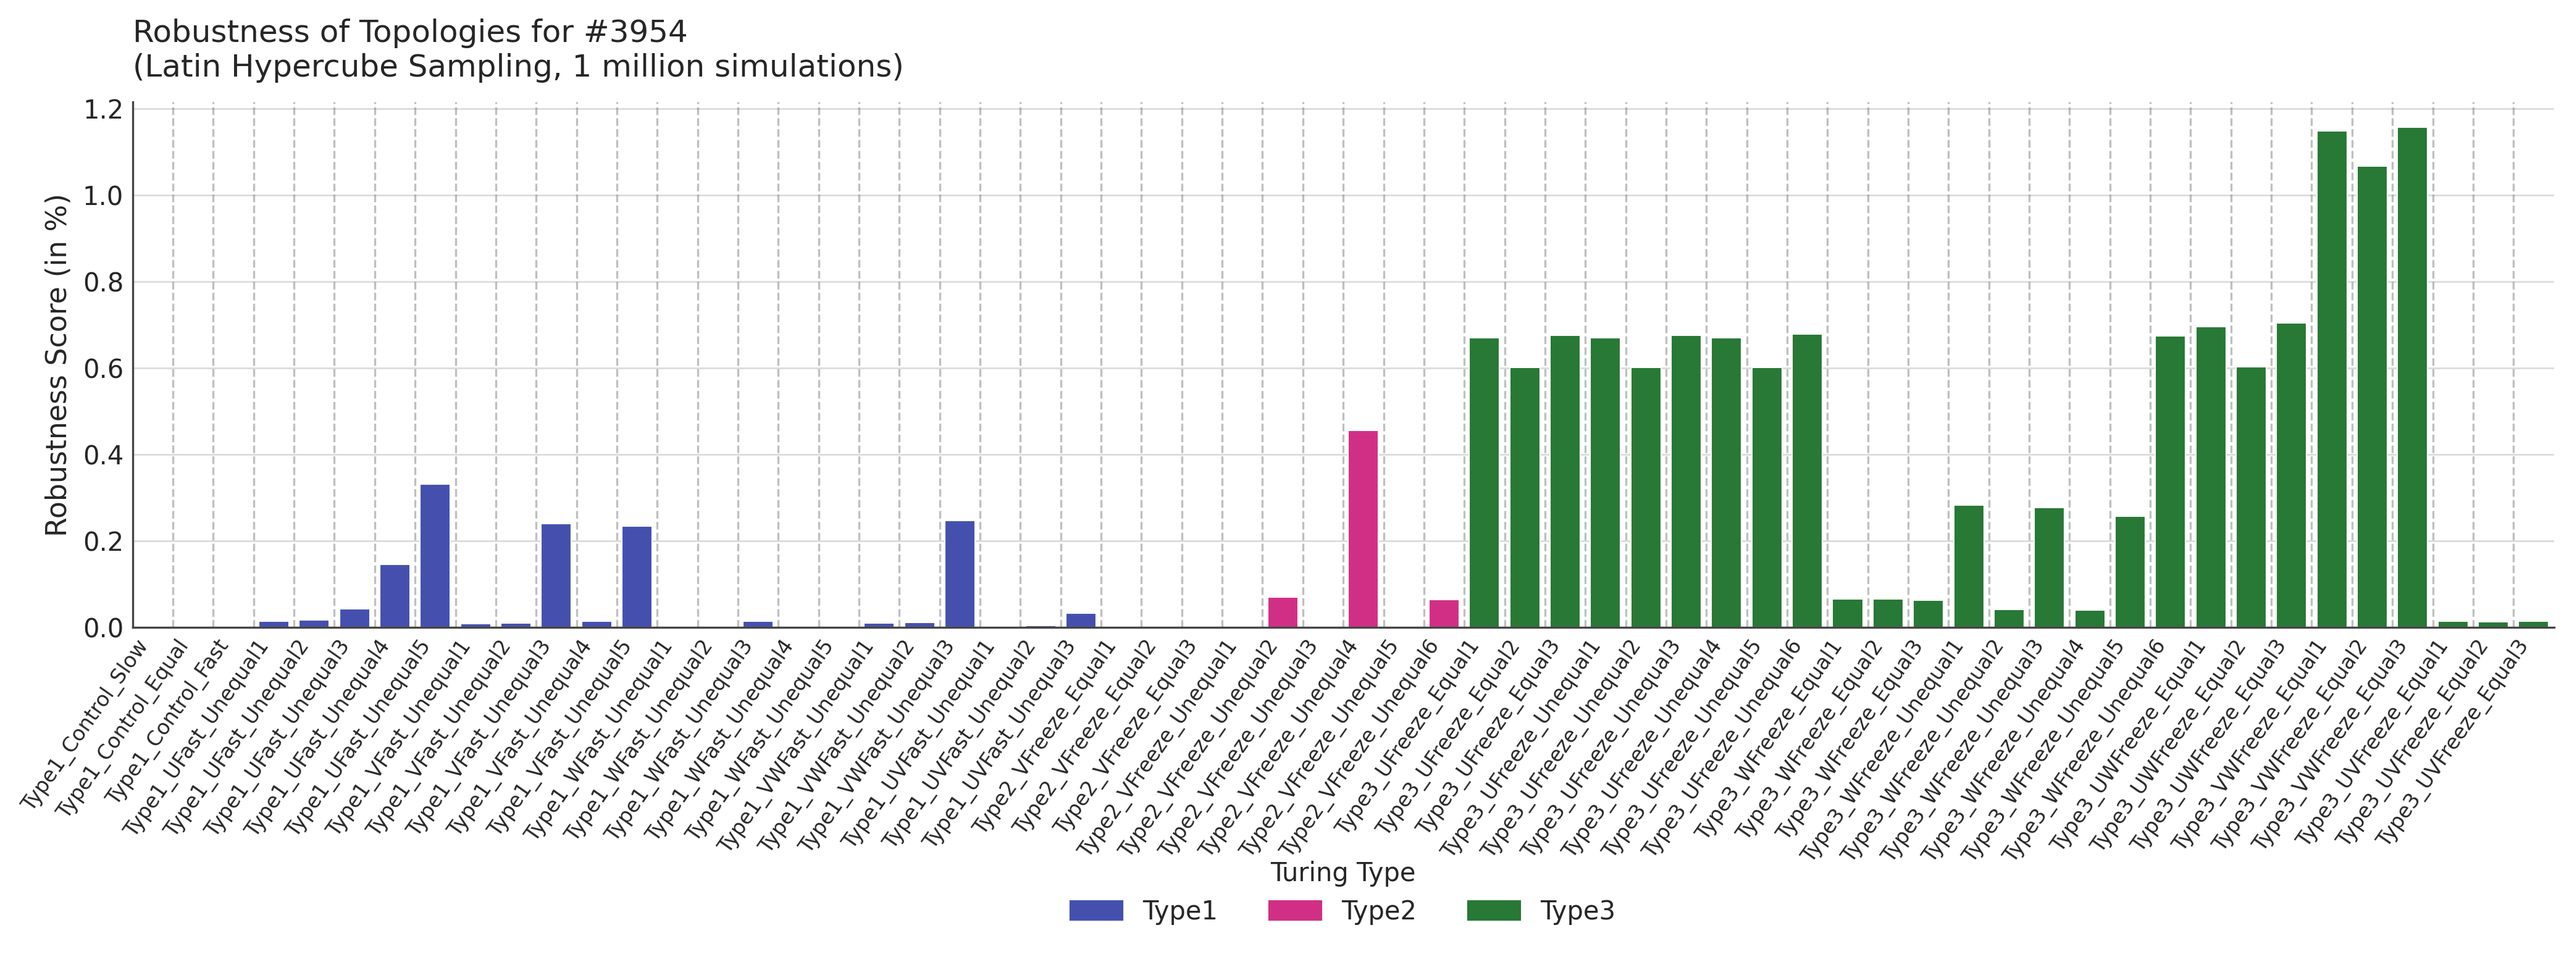
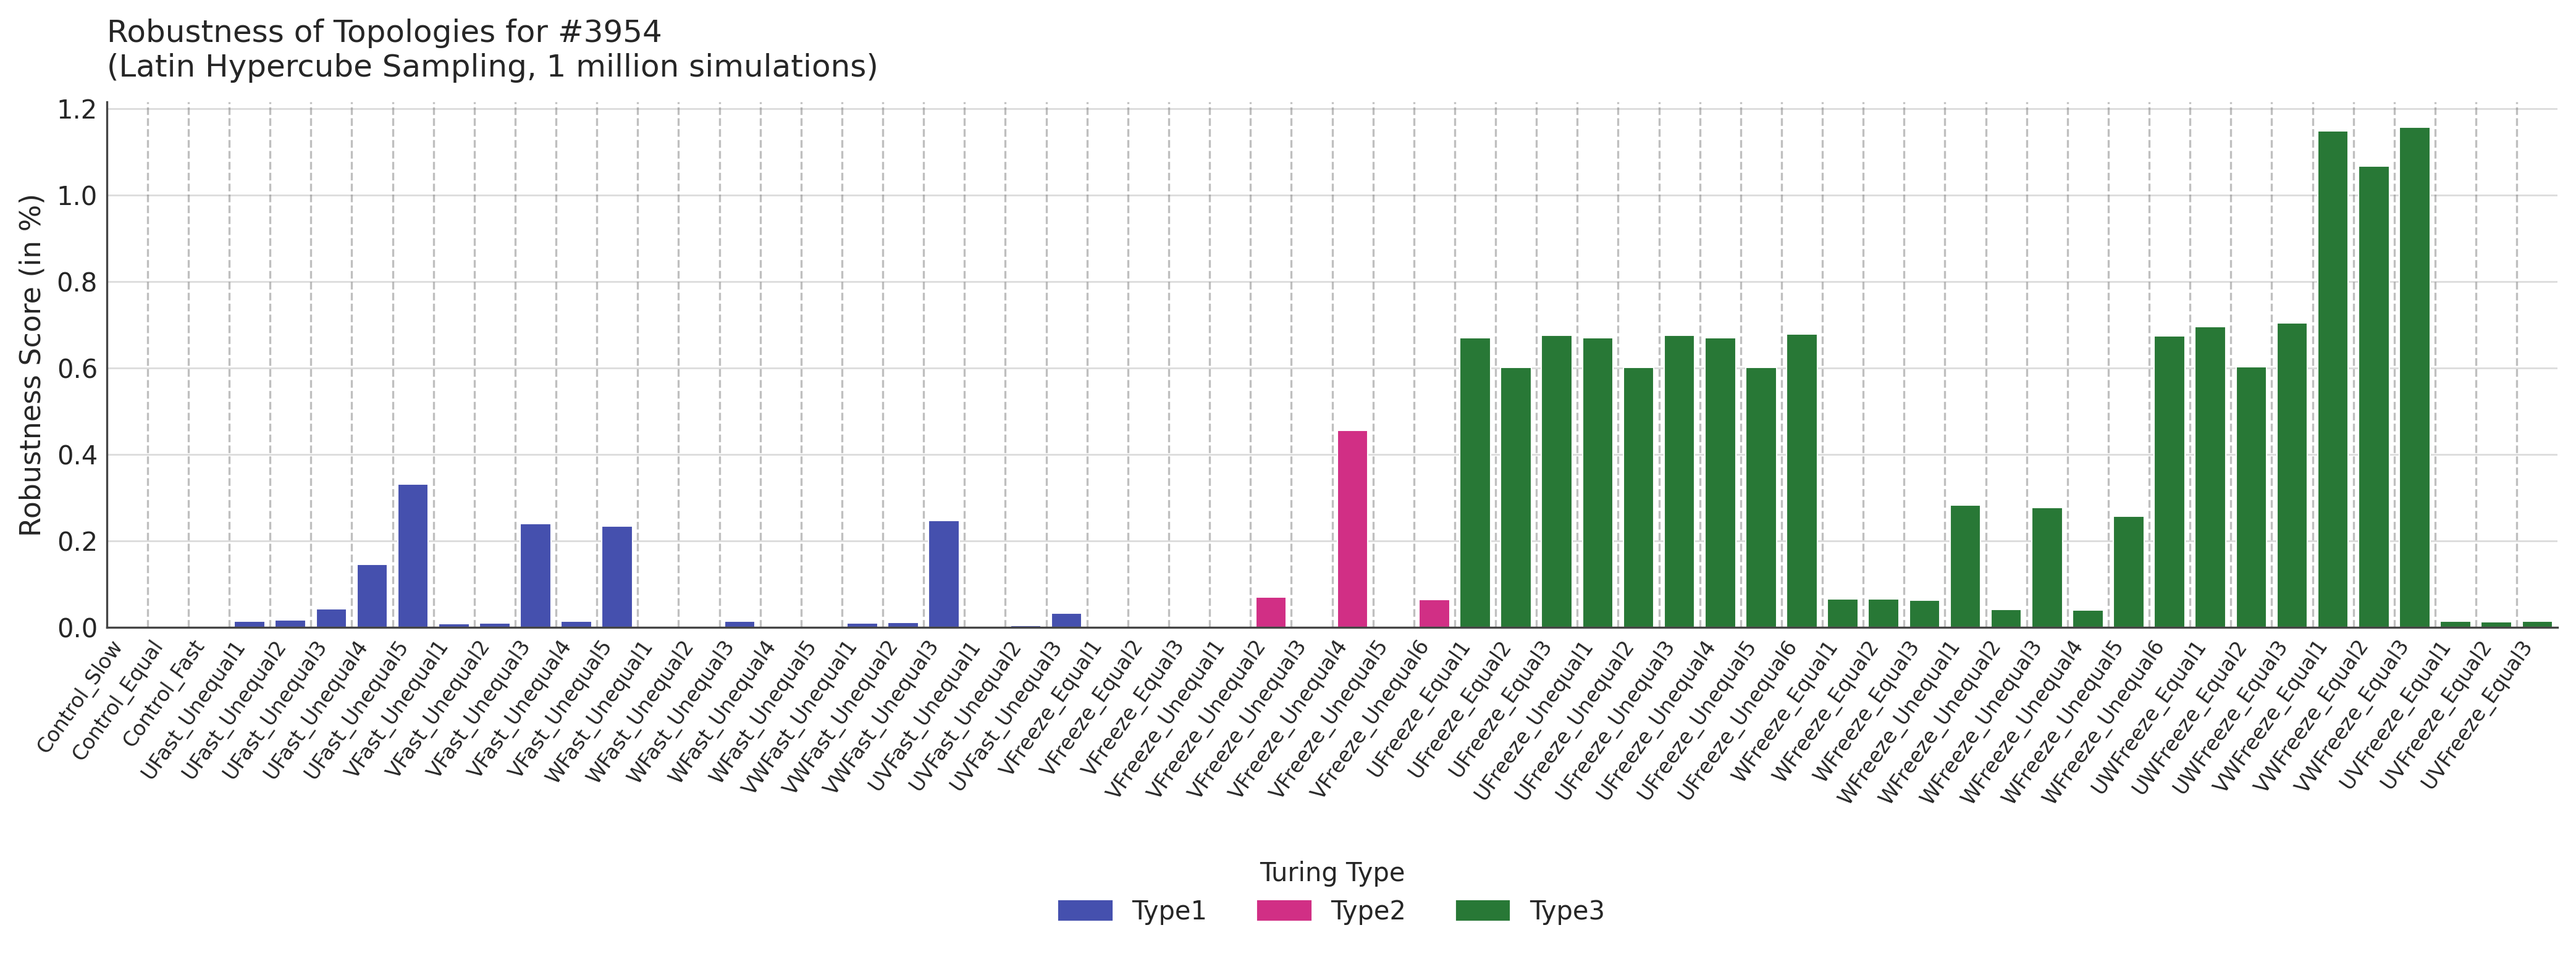
new plots i am watching hp poa yayyy

Changed region(s): [[0.0, 0.1243, 0.9988, 0.9631], [0.0312, 0.0, 0.3433, 0.1243], [0.0, 0.1864, 0.0624, 0.5903]]

diff --git a/TopologyRanking/Topology3954/lhs_plots_results_3954.py b/TopologyRanking/Topology3954/lhs_plots_results_3954.py
@@ -68,13 +68,24 @@ def fig1_overview(df):
     )
 
     # x-axis labels: strip the "3954_" prefix so they're shorter
+    # ax.set_xticks(range(len(df)))
+    # ax.set_xticklabels(
+    #     df["config_name"].str.replace("NEW_LHS_3954_Type", "", regex=False),
+    #     rotation=55,
+    #     ha="right",
+    #     fontsize=8,
+    # )
+
+        # x-axis labels: strip prefix and "Type" variations
     ax.set_xticks(range(len(df)))
     ax.set_xticklabels(
-        df["config_name"].str.replace("NEW_LHS_3954_", "", regex=False),
+        # The | means OR, and \d* means match zero or more digits (like 1, 2, 3)
+        df["config_name"].str.replace(r"NEW_LHS_3954_|Type\d*_", "", regex=True),
         rotation=55,
         ha="right",
         fontsize=8,
     )
+
 
     ax.set_ylabel("Robustness Score (in %)", fontsize=11)
     ax.set_title(
@@ -161,7 +172,7 @@ def fig2_raincloud(df):
     types  = ["Type1", "Type2", "Type3"]
     labels = ["Type 1", "Type 2", "Type 3"]
 
-    fig, ax = plt.subplots(figsize=(9.5, 6))
+    fig, ax = plt.subplots(figsize=(10, 6))
 
     for i, (t, label) in enumerate(zip(types, labels)):
         subset = df[df["turing_type"] == t]["rob_shaberi_total"].dropna().values
